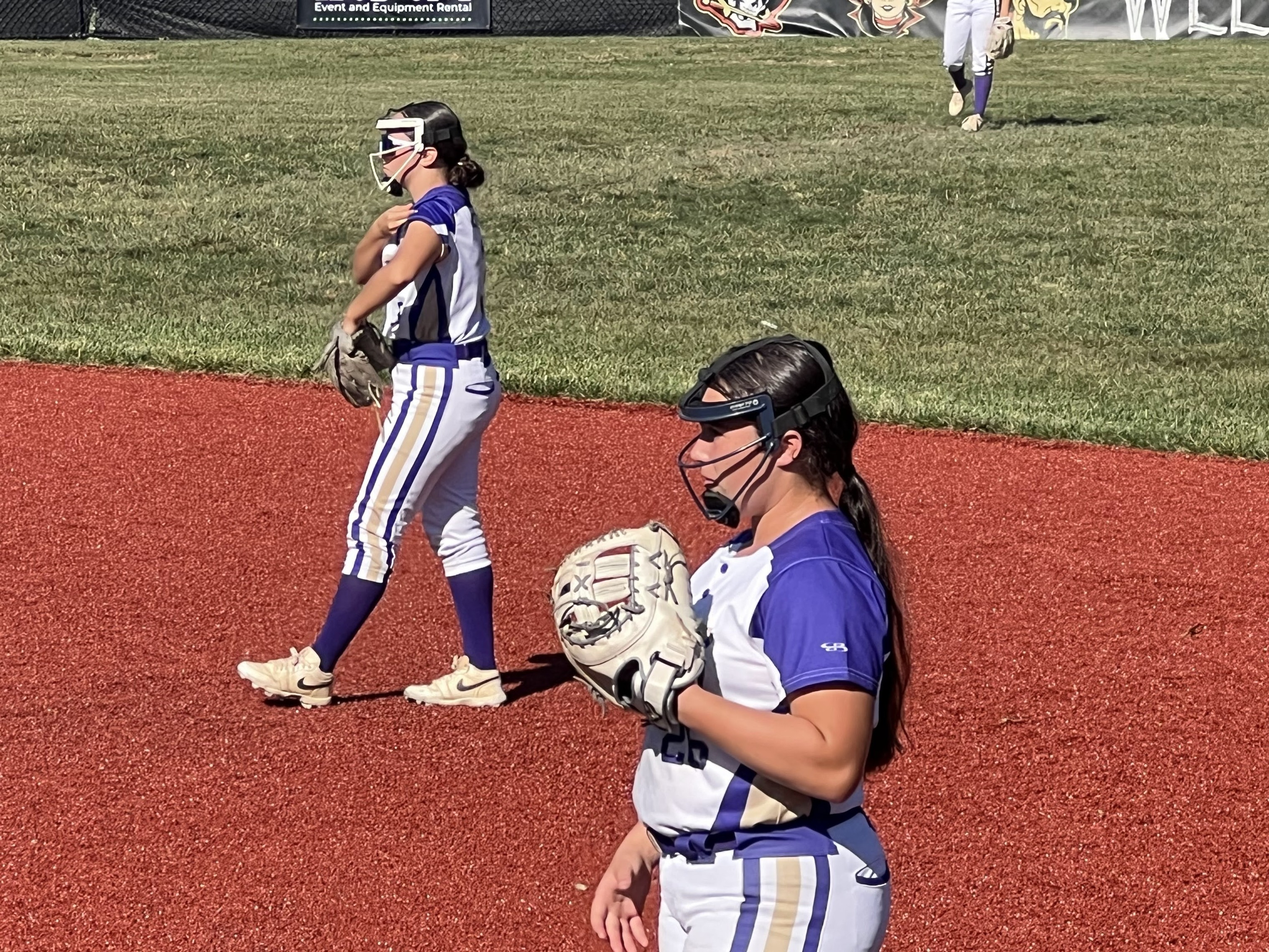
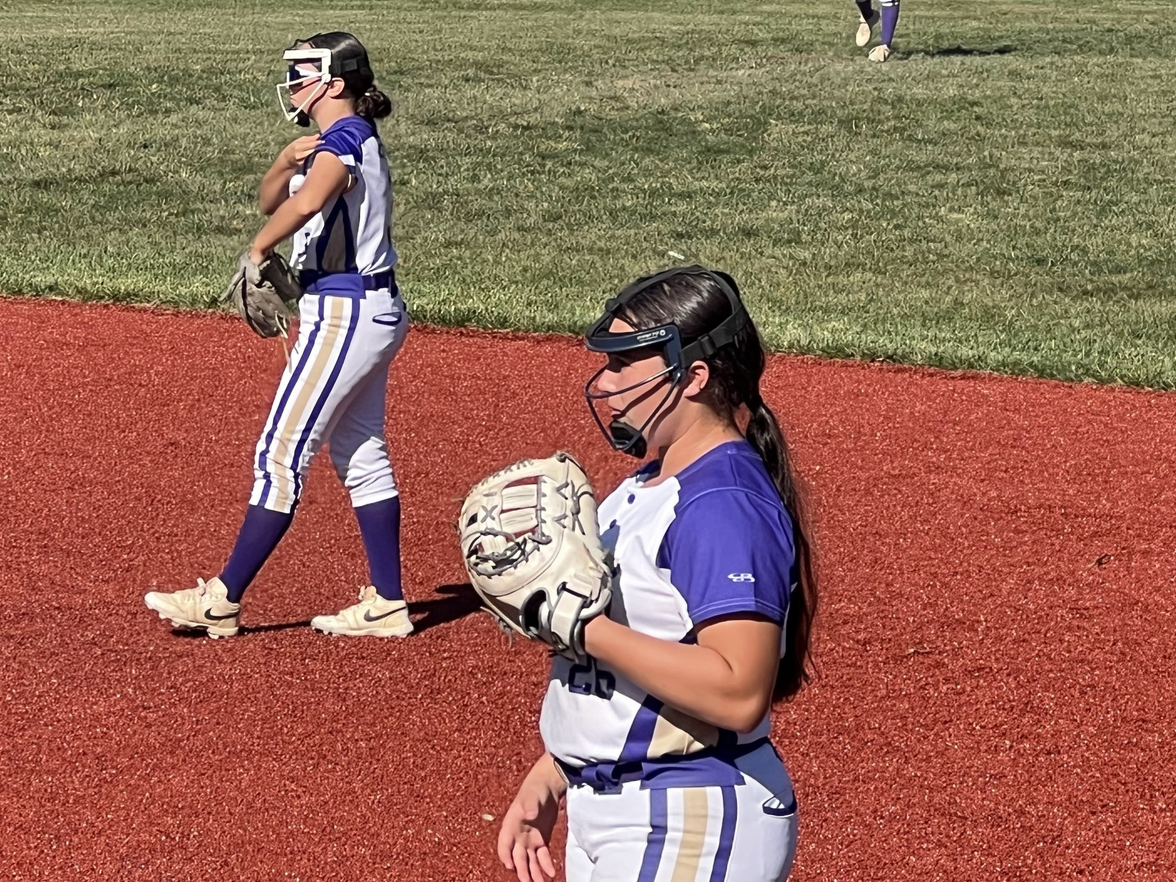
image updates

diff --git a/index.html b/index.html
@@ -103,7 +103,7 @@
         <p class="lead">From 12U to 18U, NJ HITZ emphasizes advanced fundamentals, IQ, and team culture. Below are sample highlight blocks — replace copy as your offerings evolve.</p>
         <div class="card-grid">
           <article class="card">
-            <img src="https://njhitz.github.io/images/7F0A3679.jpg" alt="Pitcher in stride">
+            <img src="https://njhitz.github.io/images/7F0A3436.jpg" alt="Pitcher in stride">
             <div class="body">
               <h3 class="gold">Elite Pitching & Defense</h3>
               <p>Infield/outfield systems, pitcher‑catcher battery work, and situational reps driven by data and deliberate practice.</p>
@@ -117,7 +117,7 @@
             </div>
           </article>
           <article class="card">
-            <img src="https://njhitz.github.io/images/IMG_7012_Original.JPG" alt="Outfielders between innings">
+            <img src="https://njhitz.github.io/images/7F0A3438.jpg" alt="Infielders diving play">
             <div class="body">
               <h3 class="gold">Culture & Mentorship</h3>
               <p>Character, confidence, and leadership with veteran staff and alumni engagement.</p>
